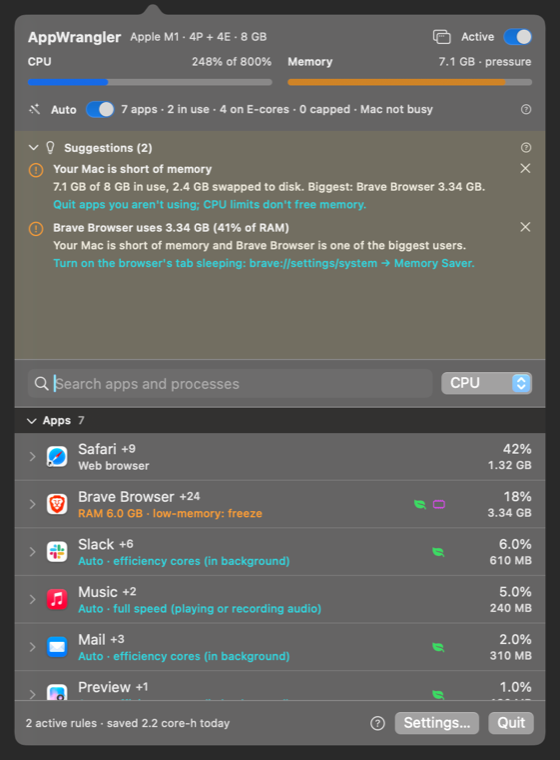
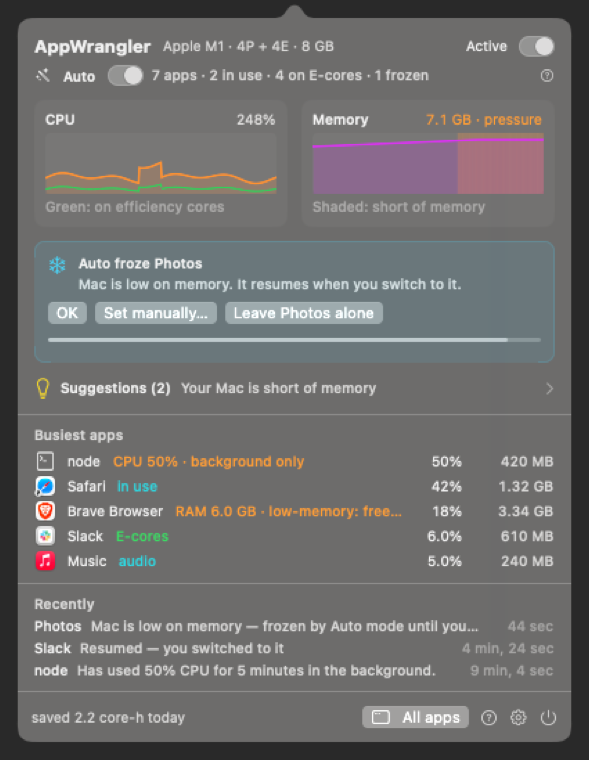
New panel screenshot (made-up demo apps) and README alt text

diff --git a/README.md b/README.md
@@ -38,7 +38,7 @@ Or download the zip from [Releases](https://github.com/IntarsO/AppWrangler/relea
 
 <!-- DEMO: once recorded (scripts/record-demo.sh), show docs/images/demo.gif here, 720 px wide, in place of the panel image. -->
 <p align="center">
-  <img src="docs/images/panel.png" width="380" alt="The AppWrangler panel: CPU and memory meters, Auto mode status, suggestions, and running apps with what Auto is doing to each">
+  <img src="docs/images/panel.png" width="380" alt="The AppWrangler panel: CPU and memory charts, the Auto line, a card about an app Auto just froze with OK, Set manually and Leave alone buttons, the busiest apps and recent activity">
 </p>
 
 ## What it does
